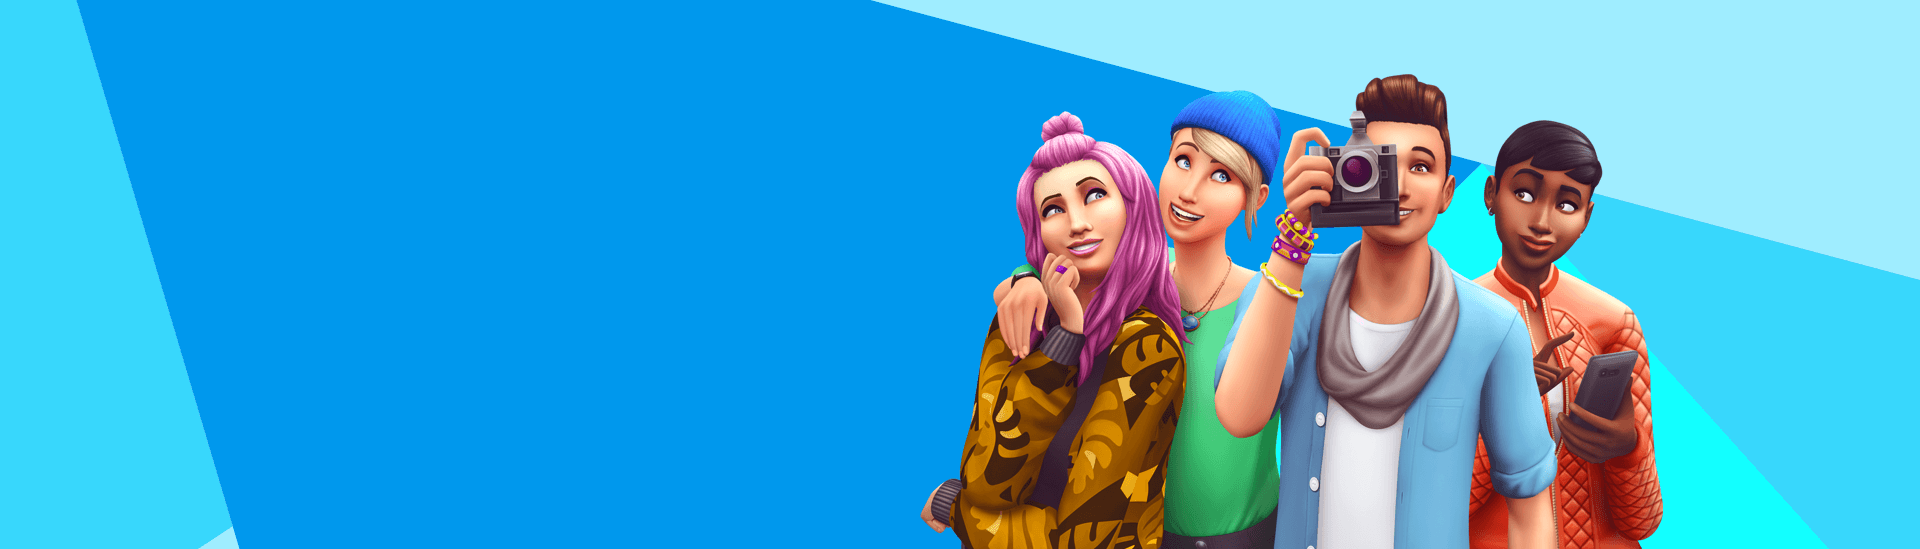
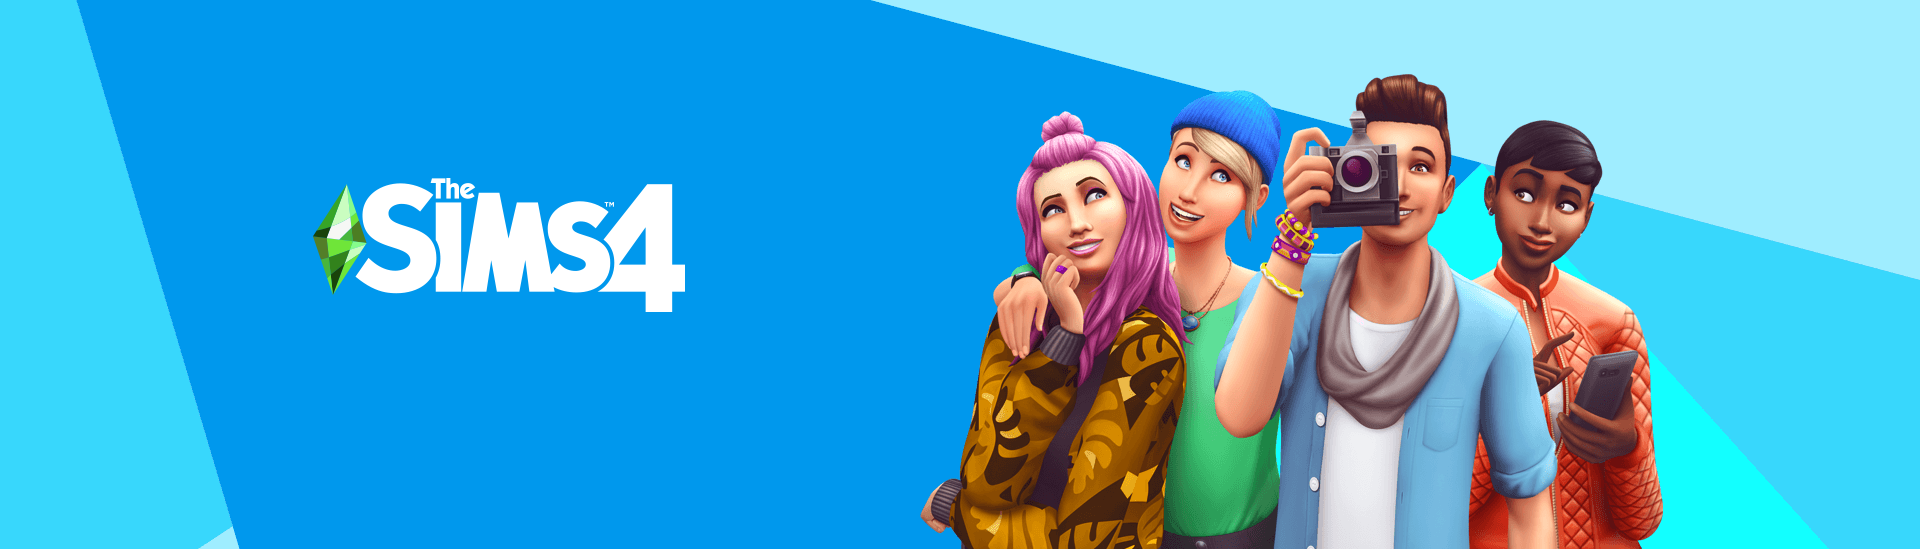
edit
edit22

Changed region(s): [[0.1562, 0.3097, 0.375, 0.5574]]

diff --git a/overview.html b/overview.html
@@ -8,58 +8,148 @@
     <script src="bootstrap/js/bootstrap.min.js"></script>
 </head>
 <body>
-   <!-- Navigation TopBar -->
-    <nav class="navbar navbar-expand-lg navbar-light bg-light">
+ <!-- Navigation TopBar -->
+    <nav id="navigasi-atas" class="navbar navbar-expand-lg navbar-light bg-light">
         <a class="navbar-brand" href="index.html"><img src="images/logo.svg" alt="" srcset=""></a>
         <button class="navbar-toggler" type="button" data-toggle="collapse" data-target="#navbarNavDropdown" aria-controls="navbarNavDropdown" aria-expanded="false" aria-label="Toggle navigation">
           <span class="navbar-toggler-icon"></span>
         </button>
         <div class="collapse navbar-collapse" id="navbarNavDropdown">
           <ul class="navbar-nav">
-            <li class="nav-item active">
-              <a class="nav-link" href="#">OVERVIEW<span class="sr-only">(current)</span></a>
-            </li>
-            <li class="nav-item">
-              <a class="nav-link" href="#">NEWS</a>
-            </li>
+            <li class="nav-item dropdown">
+                <a class="nav-link dropdown-toggle" href="#" id="navbarDropdownMenuLink" role="button" data-toggle="dropdown" aria-haspopup="true" aria-expanded="false">
+                  OVERVIEW
+                </a>
+                <div class="dropdown-menu">
+                    <h6 class="dropdown-header">Overview</h6>
+                    <div class="dropdown-divider"></div>
+                    <a class="dropdown-item" href="overview.html">Features Overview</a>
+                    <a class="dropdown-item" href="#">Expand Your Game</a>
+                    <div class="dropdown-divider"></div>
+                    <h6 class="dropdown-header">Trials & Subscriptions</h6>
+                    <div class="dropdown-divider"></div>
+                    <a class="dropdown-item" href="#">EA Play</a>
+                    <a class="dropdown-item" href="#">Create A Sim Demo</a>
+                  </div>
+              </li>
+              <li class="nav-item dropdown">
+                <a class="nav-link dropdown-toggle" href="#" id="navbarDropdownMenuLink" role="button" data-toggle="dropdown" aria-haspopup="true" aria-expanded="false">
+                  NEWS
+                </a>
+                <div class="dropdown-menu" aria-labelledby="navbarDropdownMenuLink">
+                  <a class="dropdown-item" href="#">News</a>
+                  <a class="dropdown-item" href="#">Updates Notes</a>
+                  <a class="dropdown-item" href="#">Newsletter Signup</a>
+                </div>
+              </li>
             <li class="nav-item">
               <a class="nav-link" href="#">MEDIA</a>
             </li>
-            <li class="nav-item">
-              <a class="nav-link" href="#">PACKS</a>
-            </li>
-            <li class="nav-item">
-              <a class="nav-link" href="#">FAQS & TIPS</a>
-            </li>
-            <li class="nav-item">
-              <a class="nav-link" href="#">COMMUNITY</a>
-            </li>
-            <li class="nav-item">
-              <a class="nav-link" href="#">SPARK'D</a>
-            </li>
             <li class="nav-item dropdown">
               <a class="nav-link dropdown-toggle" href="#" id="navbarDropdownMenuLink" role="button" data-toggle="dropdown" aria-haspopup="true" aria-expanded="false">
-                Dropdown link
+                PACKS
               </a>
               <div class="dropdown-menu" aria-labelledby="navbarDropdownMenuLink">
-                <a class="dropdown-item" href="#">Action</a>
-                <a class="dropdown-item" href="#">Another action</a>
-                <a class="dropdown-item" href="#">Something else here</a>
+                <a class="dropdown-item" href="#">About Packs</a>
+                <a class="dropdown-item" href="#">Expansion Packs</a>
+                <a class="dropdown-item" href="#">Game Packs</a>
+                <a class="dropdown-item" href="#">Stuff Packs</a>
+                <a class="dropdown-item" href="#">Bundle Packs</a>
+                <a class="dropdown-item" href="#">Build Your Own Bundle</a>
+                <a class="dropdown-item" href="#">Give A Gift</a>
               </div>
             </li>
+            <li class="nav-item dropdown">
+                <a class="nav-link dropdown-toggle" href="#" id="navbarDropdownMenuLink" role="button" data-toggle="dropdown" aria-haspopup="true" aria-expanded="false">
+                  FAQS & TIPS
+                </a>
+                <div class="dropdown-menu" aria-labelledby="navbarDropdownMenuLink">
+                  <a class="dropdown-item" href="#">Base Game FAQ</a>
+                  <a class="dropdown-item" href="#">Pack FAQs</a>
+                  <a class="dropdown-item" href="#">How To Cheat On Pc</a>
+                  <a class="dropdown-item" href="#">Console Tips & Tricks</a>
+                </div>
+              </li>
+              <li class="nav-item dropdown">
+                <a class="nav-link dropdown-toggle" href="#" id="navbarDropdownMenuLink" role="button" data-toggle="dropdown" aria-haspopup="true" aria-expanded="false">
+                  COMMUNITY
+                </a>
+                <div class="dropdown-menu" aria-labelledby="navbarDropdownMenuLink">
+                  <a class="dropdown-item" href="#">The Gallery</a>
+                  <a class="dropdown-item" href="#">Forums</a>
+                  <a class="dropdown-item" href="#">Fan Art Kits</a>
+                  <a class="dropdown-item" href="#">The Sims Gear</a>
+                  <a class="dropdown-item" href="#">Facebook</a>
+                  <a class="dropdown-item" href="#">Youtube</a>
+                  <a class="dropdown-item" href="#">Instagram</a>
+                  <a class="dropdown-item" href="#">Twitter</a>
+                  <a class="dropdown-item" href="#">Tumblr</a>
+                </div>
+              </li>
+              <li class="nav-item dropdown">
+                <a class="nav-link dropdown-toggle" href="#" id="navbarDropdownMenuLink" role="button" data-toggle="dropdown" aria-haspopup="true" aria-expanded="false">
+                  SPARK'D
+                </a>
+                <div class="dropdown-menu" aria-labelledby="navbarDropdownMenuLink">
+                  <a class="dropdown-item" href="#">Spark'D Challenges</a>
+                  <a class="dropdown-item" href="#">Spark'D Show</a>
+                  <a class="dropdown-item" href="#">Challenge Archive</a>
+                </div>
+              </li>
+              <li class="nav-item dropdown leftt">
+                <a class="nav-link dropdown-toggle" href="#" id="navbarDropdownMenuLink" role="button" data-toggle="dropdown" aria-haspopup="true" aria-expanded="false">
+                  Download The Sims™ 4
+                </a>
+                <div class="dropdown-menu" aria-labelledby="navbarDropdownMenuLink">
+                  <a class="dropdown-item" href="#">PC Download</a>
+                  <a class="dropdown-item" href="#">Xbox One</a>
+                  <a class="dropdown-item" href="#">Playstation 4</a>
+                </div>
+              </li>
           </ul>
         </div>
       </nav>
+<div>
 
-
+<h6 class="text1"> Unleash your imagination and create a unique world of Sims 
+<br> that’s an expression of you! Explore and customize every detail from Sims <br> to homes, and much more.
+<br>
+</h6>
 <img src="images/gm1.png" class="img">
-<img src="images/gm2.png">
+</div>
+<div> 
+<h5 class="text2">CREATE UNIQUE SIMS </h5>
+<h6 class="text3">
+A variety of Sims are yours to personalize, each with distinct appearances, dynamic personalities, and inspiring aspirations. Use powerful customization features to bring your imagination to life. Create yourself, your favorite celebrities, your fantasy, or your friends! Change your Sims’ clothing to reflect your mood, develop stories that deepen your world, and give their lives purpose with traits and aspirations.</h6>
 <img src="images/gm3.png">
+</div>
+<div> 
+<h5 class="text2">BUILD THE PERFECT HOME</h5>
+<h6 class="text3">
+Effortlessly build and design ideal homes for your Sims using Build Mode. Construct the home of your – and their – dreams by planning its layout, choosing furnishings, and altering the landscape and terrain. You can even add a pool, basement, and garden, or rebuild with new ideas and designs!</h6>
 <img src="images/gm4.png">
+</div>
+
+<div>
+<h5 class="text2">EXPLORE VIBRANT WORLDS</h5>
+<h6 class="text3">Travel between locations, discover amazing and distinctive neighborhoods, and encounter captivating venues. Your Sims can visit new communities to expand their social circle, hang out with friends, or throw unforgettable parties.</h6>
 <img src="images/gm5.png">
+</div>
+
+<div>
+<h5 class="text2">ADD NEW EXPERIENCES </h5>
+<h6 class="text3">
+Use the Gallery to find inspiration from a community of players just like you, where you can add content to your game or share your own creations. Download, like, and comment on your favorite Sims, homes, and fully-designed rooms. Join the community, join the fun!</h6>
 <img src="images/gm7.png">
+</div>
+
+<div>
+<h5 class="text4">Enjoy the power to create and control people in a virtual <br> world where there are no rules. Play now on PC, Xbox One, <br> and PS4! </h5>
 <img src="images/gm8.png">
-<img src="images/gm9.png">
+<center > <button type="button" class="btn btn-outline-dark btn-news btn-lg">Play</button></center>
+</div>
+
+<img src="images/gm9.png" class="logo">
 
 </body>
 </html>

diff --git a/css/style.css b/css/style.css
@@ -1,20 +1,42 @@
-.logo1 {
-	  width: 175px;
-    left: 75px;
-    top: 100px;
-    background-color:blue;
-    z-index: 3;
-	
+.text1 {
+	   position: absolute;
+    margin-top: 320px;
+    margin-left: 200px;
+    font-size: 24px;
+    color: white;
+    font-family: Garamond;
 }
 
-.img{
-		position: relative;
-		z-index: 1;
-		top: 0px;
-	}
-	.p{
-		position: absolute;
-		top: 20px;
-		z-index: 2;
-		color: #fff;
-	}
+
+.text2 {
+	   position: absolute;
+    margin-top: 820px;
+    margin-left: 530px;
+    font-size: 50px;
+    color: white;
+    font-family: cooper black;
+}
+
+.text3 {
+	   position: absolute;
+    margin-top: 900px;
+    margin-left: 240px;
+    font-size: 24px;
+    color: white;
+    font-family: Garamond;
+}
+
+.text4 {
+	   position: absolute;
+    margin-top: 300px;
+    margin-left: 1020px;
+    font-size: 24px;
+    color: white;
+    font-family: Garamond;
+}
+
+.logo{
+	resize: 20px;
+    position: absolute;
+}
+  
